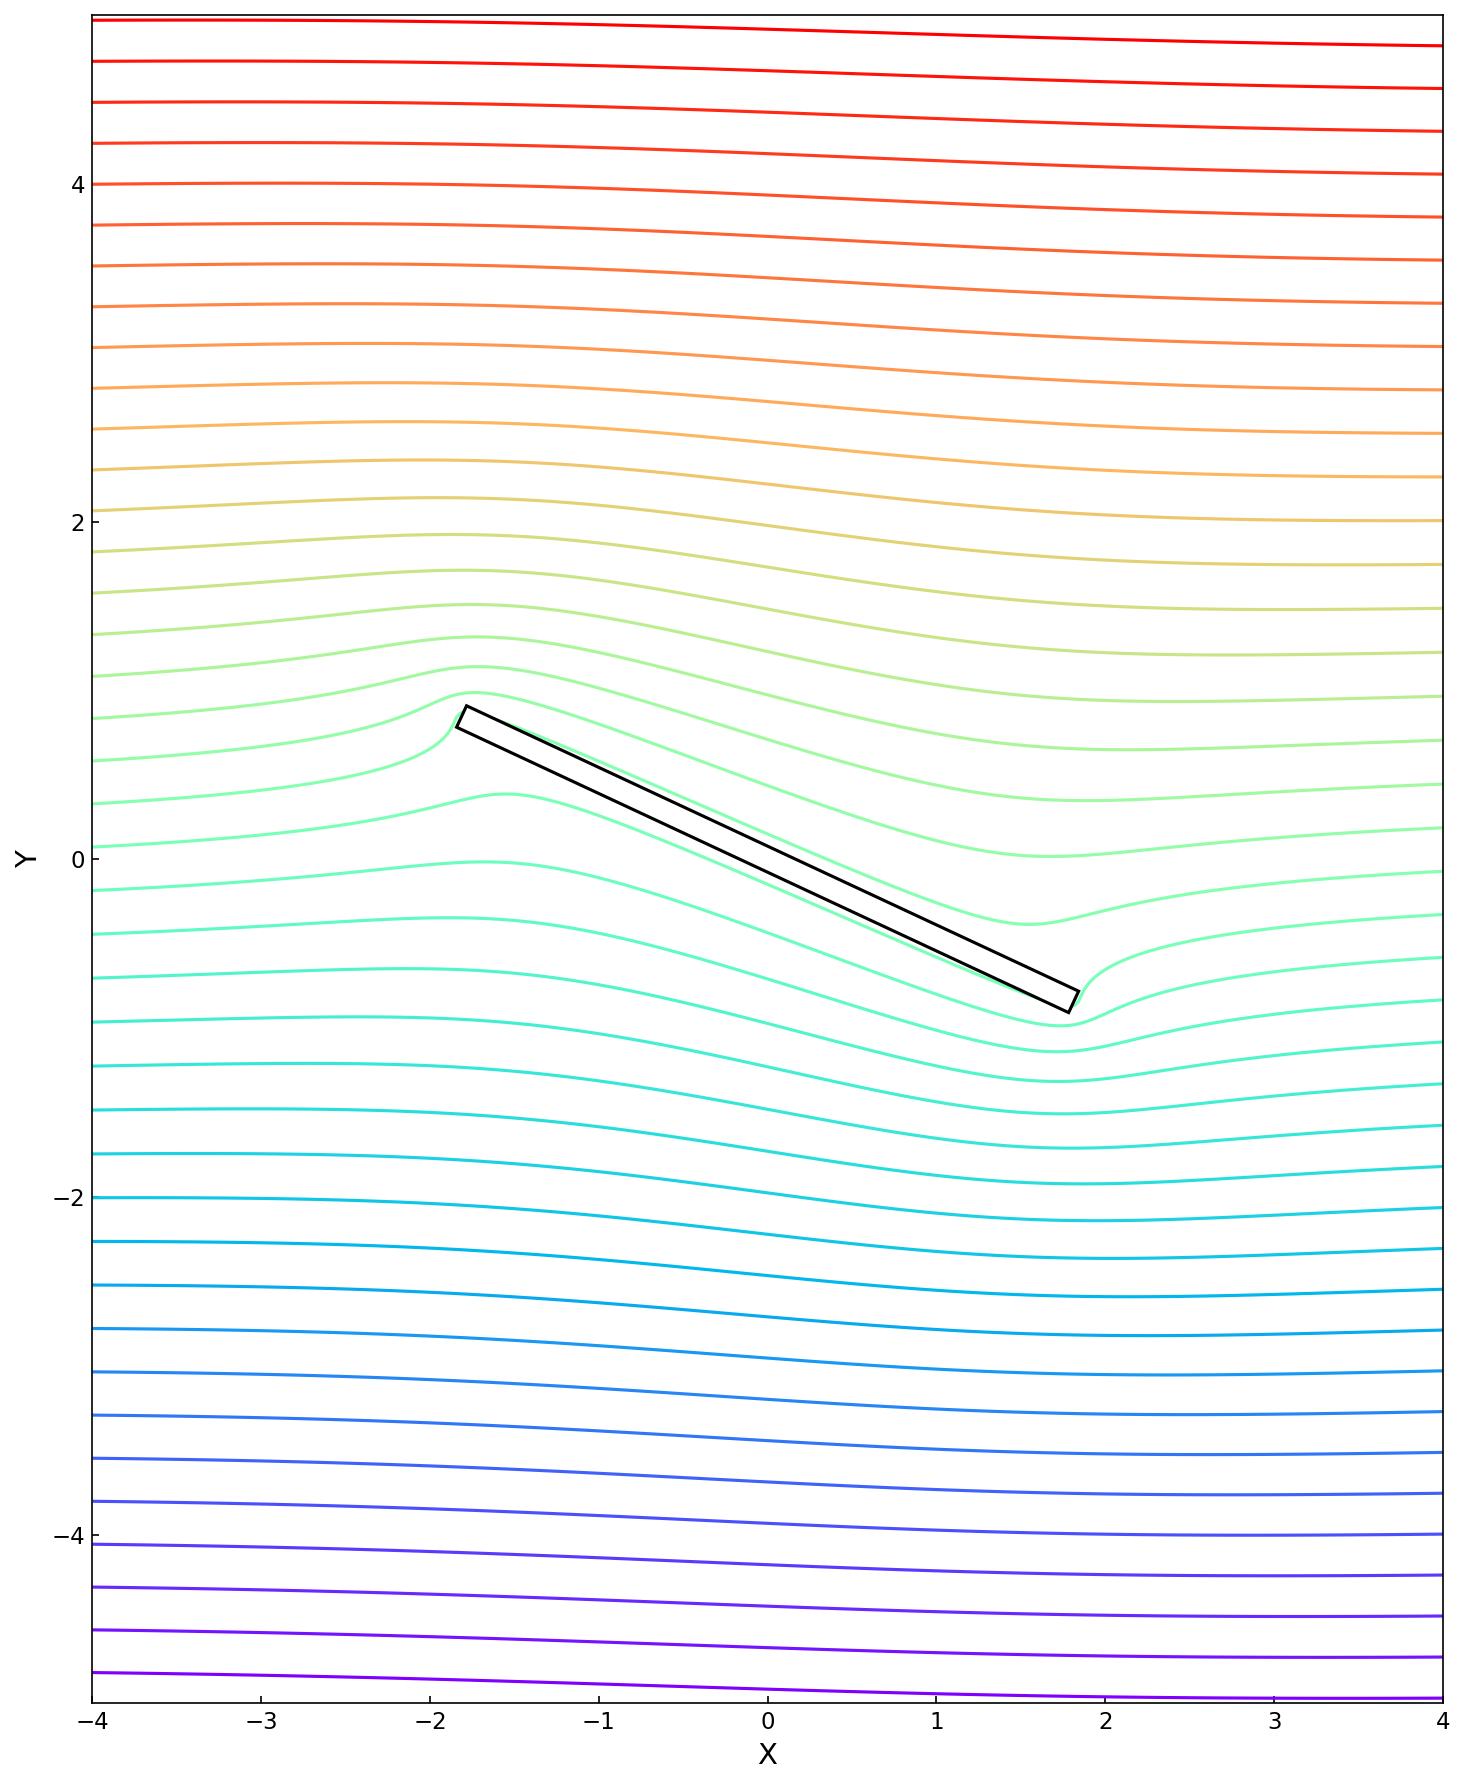
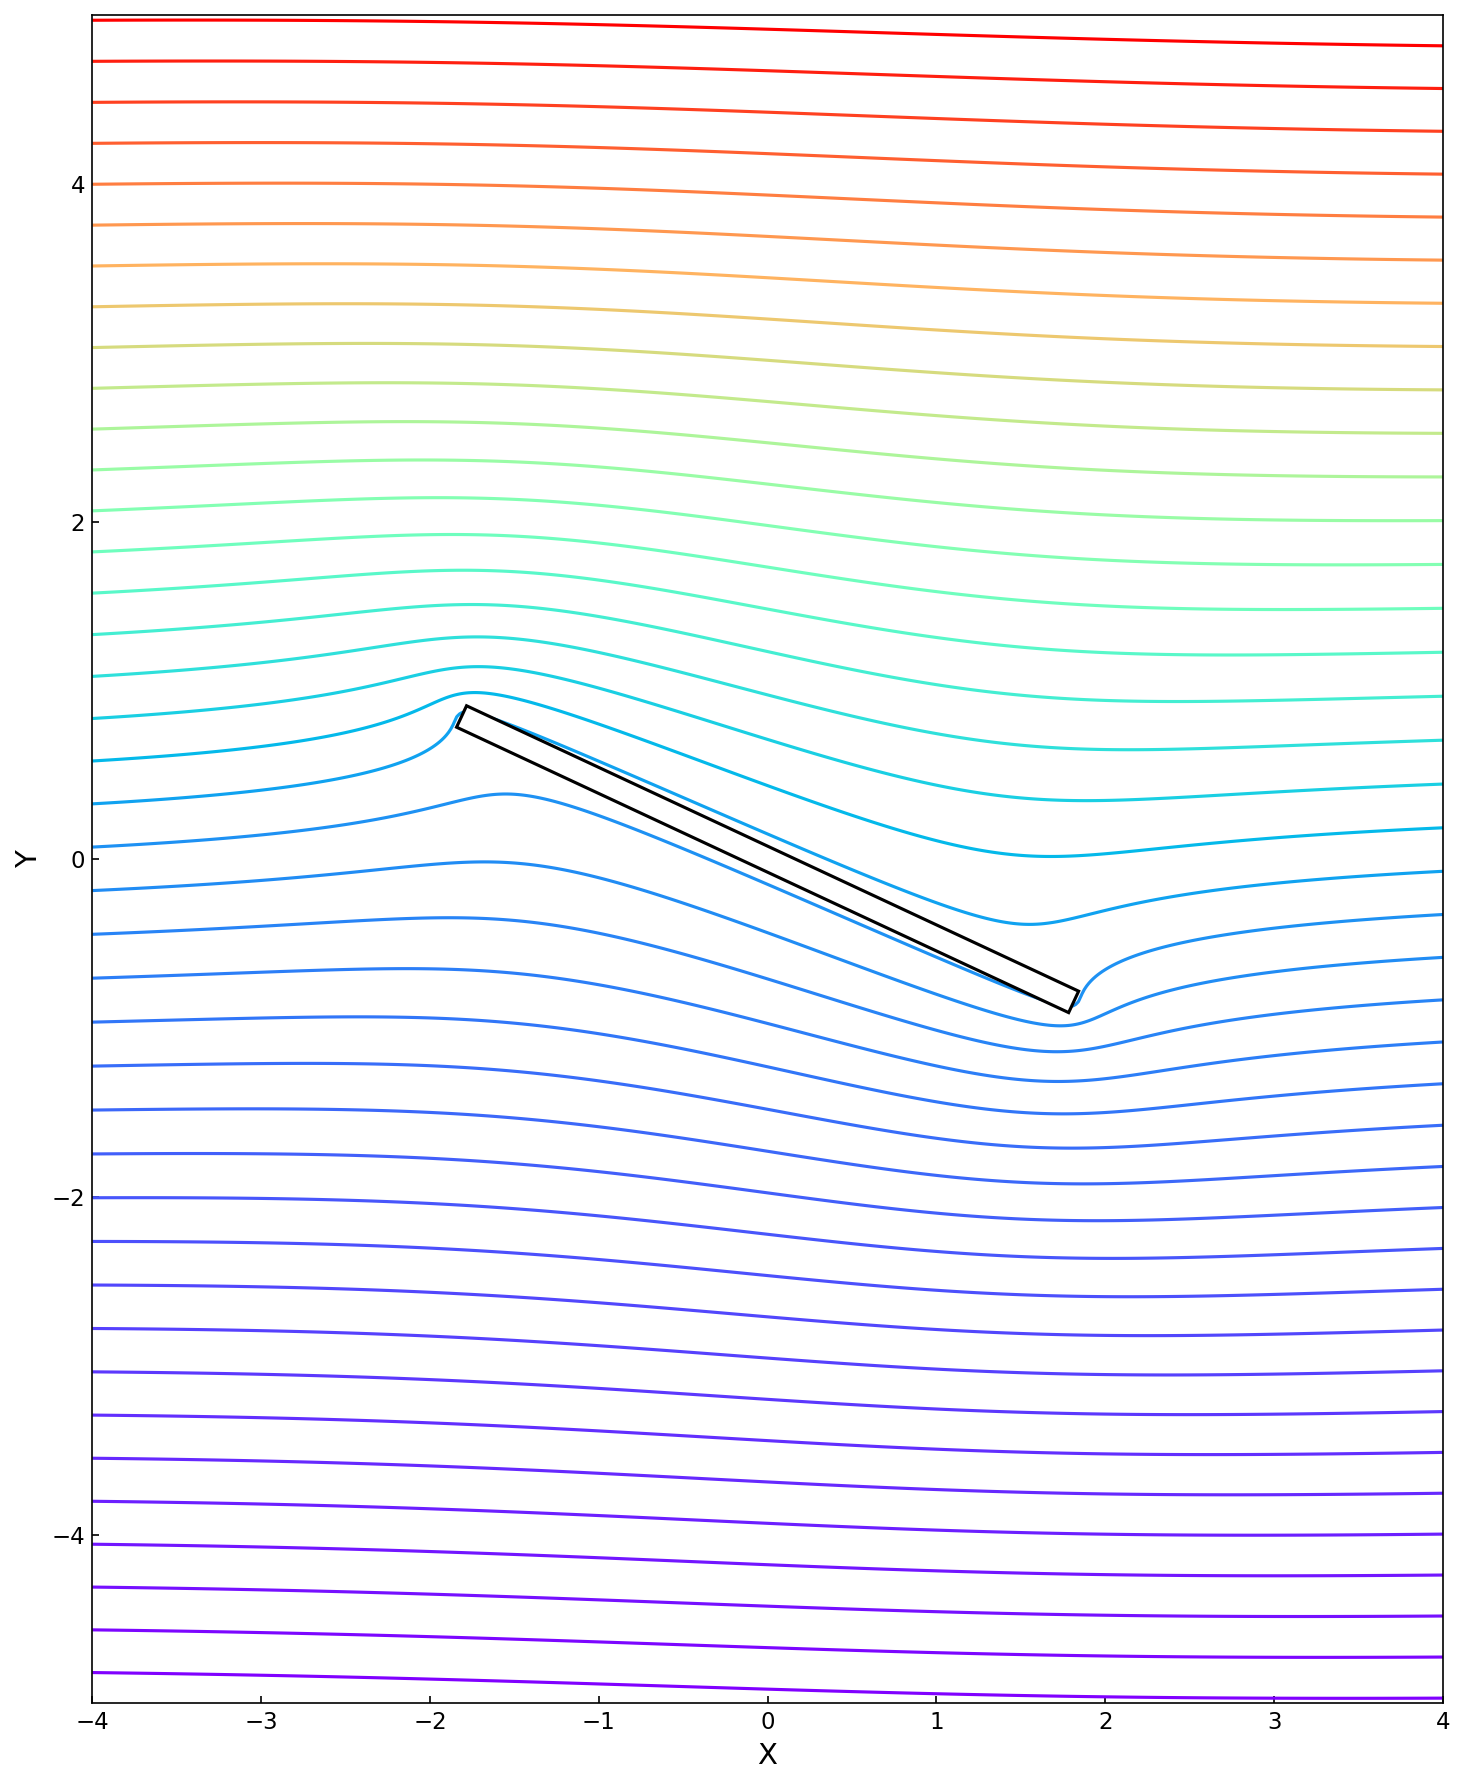
Update python flow figure scripts
🤖 Generated with [Claude Code](https://claude.com/claude-code)

diff --git a/python_flow_figures/fig_05_04_flat_plate.py b/python_flow_figures/fig_05_04_flat_plate.py
@@ -126,18 +126,38 @@ def plot_flow(X, Y, psi, a, alpha_deg, n_lines=40):
     fig, ax = plt.subplots(figsize=(10, 12))
 
     psi_valid = psi[np.isfinite(psi)]
-    # Original colormap goes: magenta(bottom) -> blue -> cyan -> green -> yellow -> red(top)
-    # This matches the 'rainbow' colormap but we need to check the mapping
-    psi_min = np.percentile(psi_valid, 1)
-    psi_max = np.percentile(psi_valid, 99)
+    # We want the plate (around y=0, psi≈0) to be in the BLUE region
+    # Rainbow colormap: violet(0) -> blue(0.2) -> cyan(0.4) -> green(0.5) -> yellow(0.7) -> red(1)
+    #
+    # Strategy: use full data range for levels, but stretch/shift the colormap
+    # so that psi=0 maps to blue while keeping full color range
 
-    levels = np.linspace(psi_min, psi_max, n_lines)
+    # Get the actual data range
+    psi_max_data = np.percentile(psi_valid, 99)
+    psi_min_data = np.percentile(psi_valid, 1)
 
-    # The original appears to use HSV-like coloring with red at top, going through
-    # yellow, green, cyan, blue to magenta at bottom
-    # rainbow colormap: violet(0)->blue->cyan->green->yellow->red(1)
-    # So rainbow with reversed levels should work, OR we reverse the color assignment
-    colors = plt.cm.rainbow(np.linspace(0, 1, len(levels)))
+    # Use full data range for levels
+    levels = np.linspace(psi_min_data, psi_max_data, n_lines)
+
+    # For each level, compute what color it should get
+    # We want: psi_min_data -> violet (0), psi=0 -> blue (0.2), psi_max_data -> red (1)
+    # This requires a non-linear mapping
+    #
+    # Simple approach: linearly interpolate in two segments
+    # Segment 1: psi_min to 0 maps to color 0 to 0.2
+    # Segment 2: 0 to psi_max maps to color 0.2 to 1.0
+
+    color_fracs = np.zeros(len(levels))
+    for i, lev in enumerate(levels):
+        if lev <= 0:
+            # Map [psi_min, 0] to [0, 0.2]
+            color_fracs[i] = 0.2 * (lev - psi_min_data) / (0 - psi_min_data) if psi_min_data != 0 else 0.2
+        else:
+            # Map [0, psi_max] to [0.2, 1.0]
+            color_fracs[i] = 0.2 + 0.8 * (lev - 0) / (psi_max_data - 0) if psi_max_data != 0 else 0.2
+
+    # Rainbow colormap
+    colors = plt.cm.rainbow(color_fracs)
 
     for level, color in zip(levels, colors):
         cs = ax.contour(X, Y, psi, levels=[level], colors=[color], linewidths=1.5, linestyles='solid')